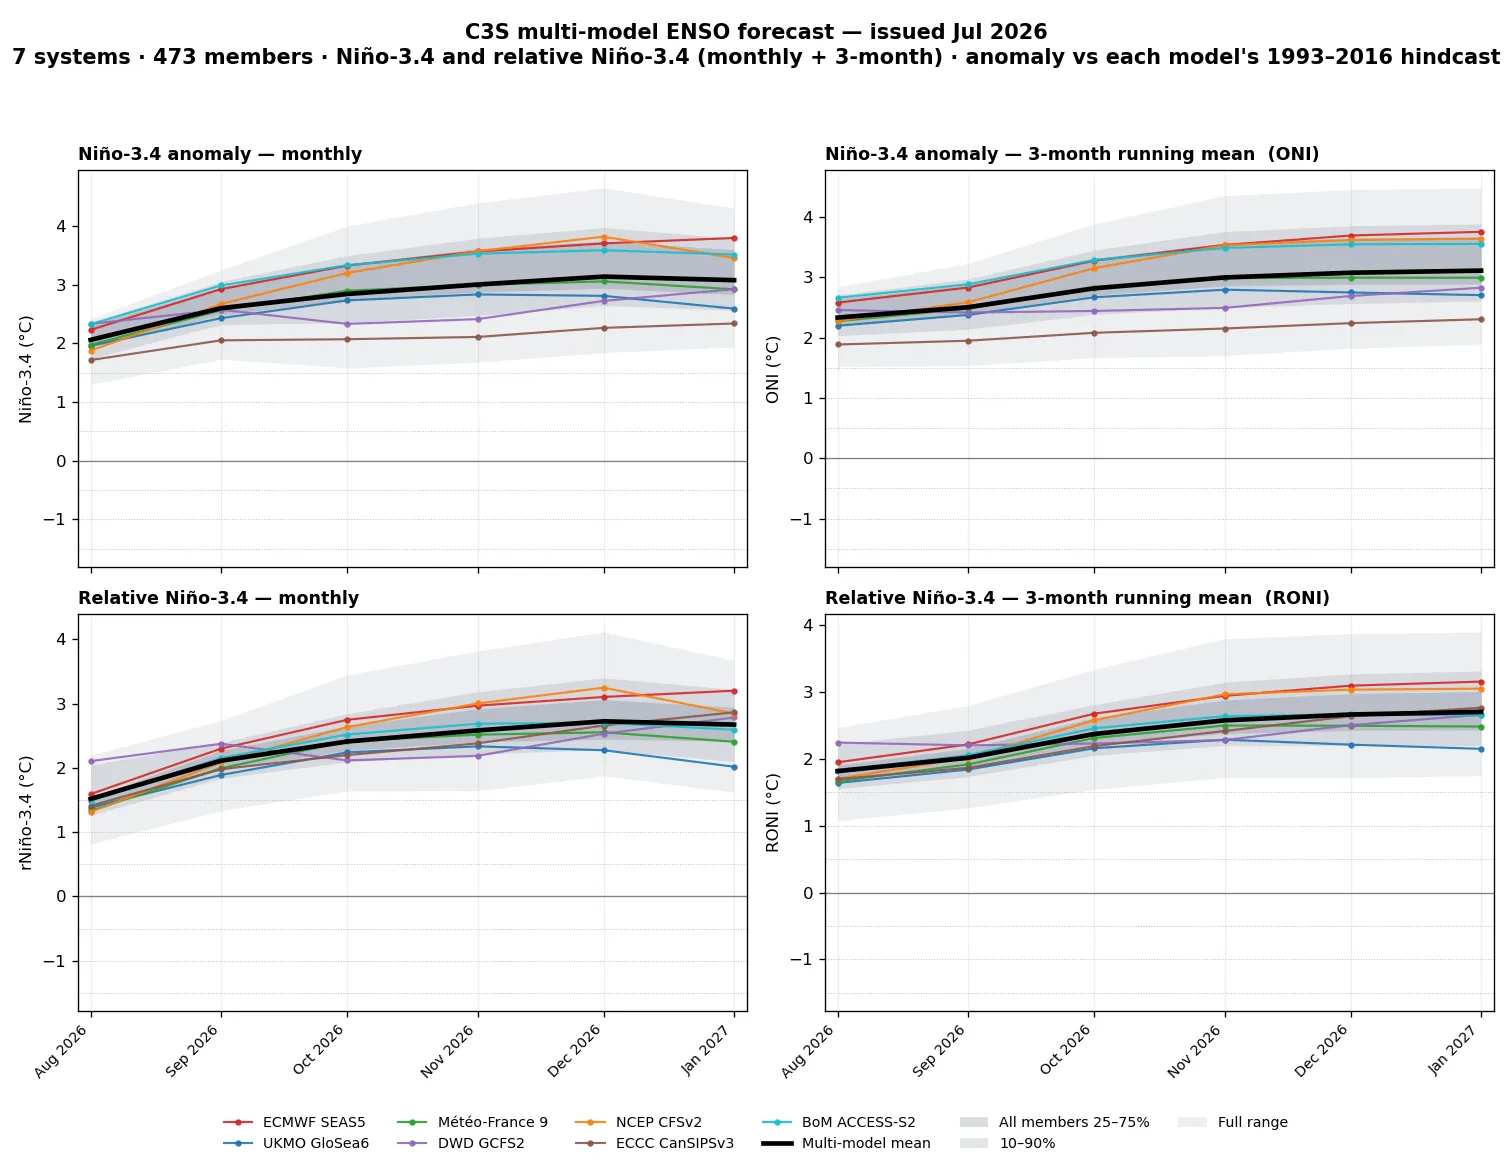
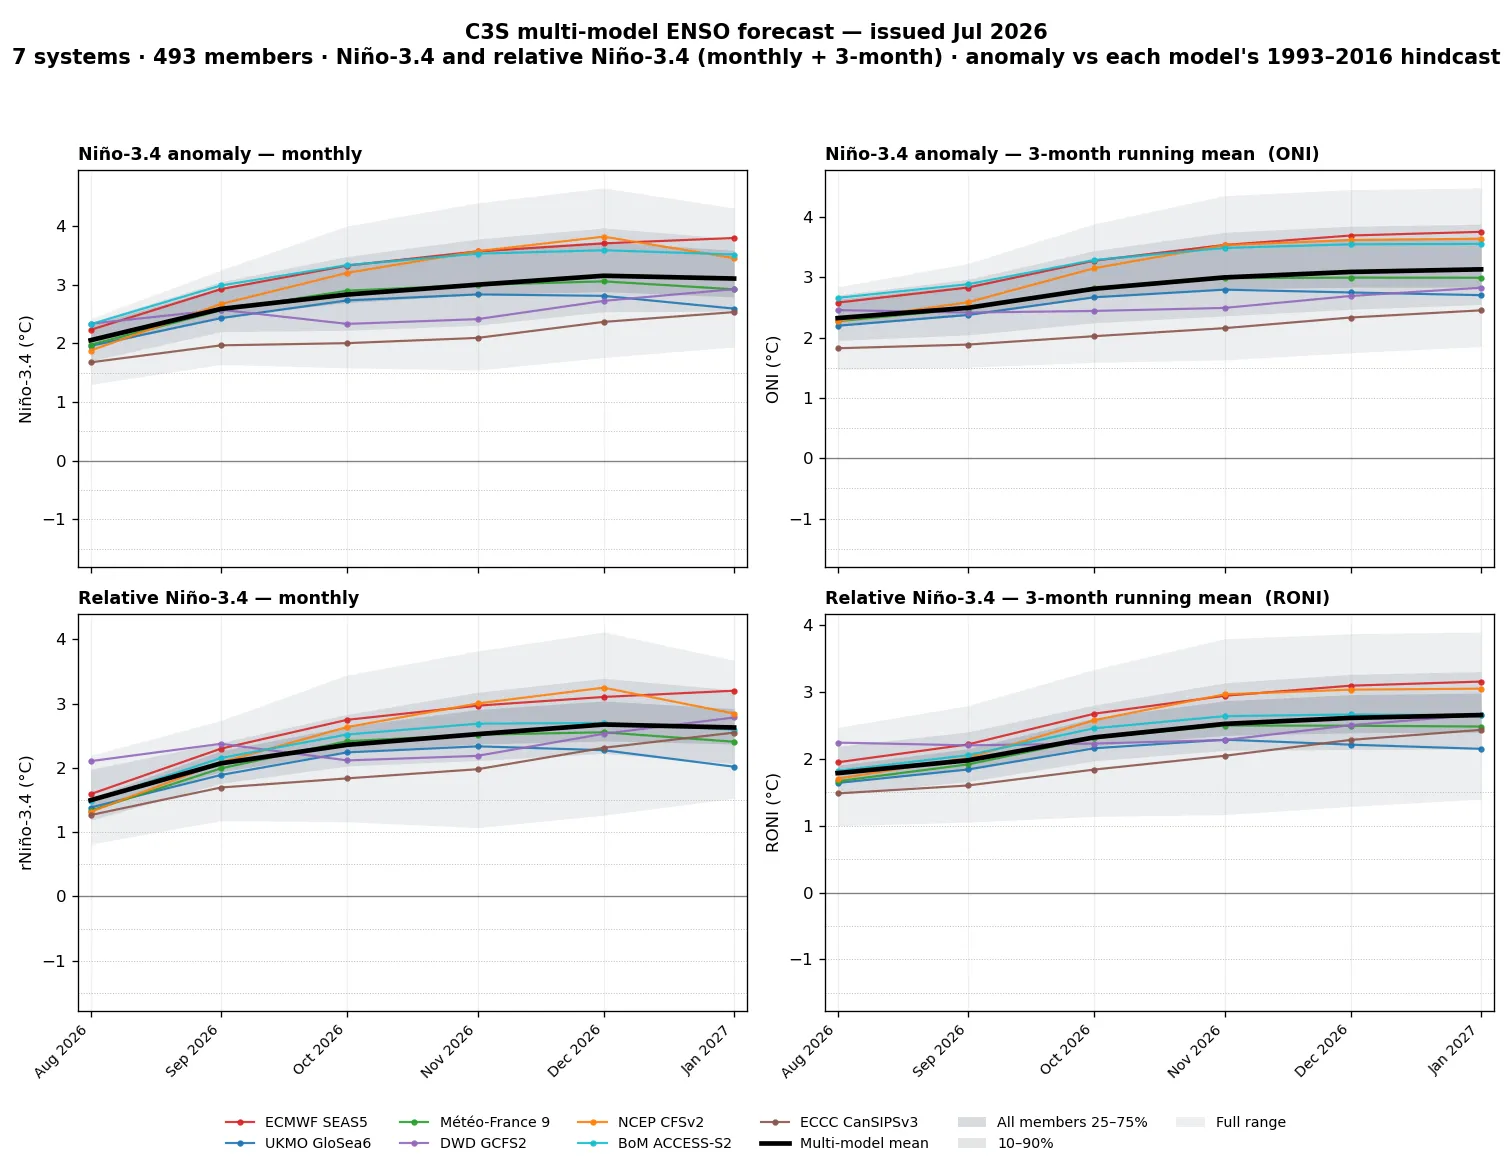
ENSO Forecasts: CanSIPS is GEM5-NEMO + CanESM5 merged, 40 members
Correcting the correction. The CDS carries ECCC's two CanSIPS COMPONENT
models as separate systems — 4 = GEM5-NEMO, 5 = CanESM5, 20 members each
(probed: no other eccc systems exist). Neither alone is CanSIPS; the June
"flat outlier" was one component standing in for the pair, and my earlier
"v2.1 deprecated" story was wrong. collect() now anomalizes each component
against its own hindcast and pools the members into one 40-member
"ECCC CanSIPSv3" entry (falling back to a single labelled component if only
one is on the CDS). July feed rebuilt: 7 display models, 493 members;
merged CanSIPS runs +1.68 → +2.53 °C, inside the multi-model envelope.

diff --git a/scripts/sst/c3s_nino34.py b/scripts/sst/c3s_nino34.py
@@ -94,9 +94,12 @@ MODELS = [
     ("meteo_france", "9",   "Météo-France 9", "#2ca02c"),
     ("dwd",          "22",  "DWD GCFS2",      "#9467bd"),
     ("ncep",         "2",   "NCEP CFSv2",     "#ff7f0e"),
-    # system 5 = CanSIPSv3, ECCC's operational system since late 2024 — the
-    # old "4" (CanSIPSv2.1) still publishes but is a deprecated parallel run
-    ("eccc",         "5",   "ECCC CanSIPSv3", "#8c564b"),
+    # CanSIPS is a TWO-model ensemble: the CDS carries its components as
+    # separate systems (4 = GEM5-NEMO, 5 = CanESM5, 20 members each). Each is
+    # anomalized against its own hindcast, then MERGED below into one 40-member
+    # CanSIPS — either alone is only half the ensemble.
+    ("eccc",         "4",   "ECCC GEM5-NEMO", "#8c564b"),
+    ("eccc",         "5",   "ECCC CanESM5",   "#8c564b"),
     ("bom",          "2",   "BoM ACCESS-S2",  "#17becf"),
 ]
 
@@ -273,6 +276,11 @@ def model_members(centre, system, ym):
     return {"n34": n34_mem, "rnino": rnino_mem}
 
 
+# components pooled into one display model (each anomalized vs its own
+# hindcast FIRST, then members concatenated — the CanSIPS construction)
+MERGE = {"ECCC CanSIPSv3": ("ECCC GEM5-NEMO", "ECCC CanESM5")}
+
+
 def collect(ym):
     """{label → (member_dict, colour)} for every model with data at this issue."""
     out = {}
@@ -286,6 +294,22 @@ def collect(ym):
         rn = np.array([r["rnino"][L].mean() for L in range(1, MAXLEAD + 1)])
         print(f"  {label:16s} {r['n34'][1].size:>3d} mem · "
               f"Niño-3.4 {n[0]:+.2f}→{n[-1]:+.2f}  rNiño-3.4 {rn[0]:+.2f}→{rn[-1]:+.2f}", flush=True)
+    for merged, parts in MERGE.items():
+        have = [p for p in parts if p in out]
+        if len(have) < 2:
+            if have:                      # one component alone: keep it, labelled as-is
+                print(f"  {merged}: only {have[0]} available — shown unmerged", flush=True)
+            continue
+        colour = out[have[0]][1]
+        pooled = {k: {L: np.concatenate([out[p][0][k][L] for p in have])
+                      for L in range(1, MAXLEAD + 1)}
+                  for k in ("n34", "rnino")}
+        for p in have:
+            del out[p]
+        out[merged] = (pooled, colour)
+        n = np.array([pooled["n34"][L].mean() for L in range(1, MAXLEAD + 1)])
+        print(f"  {merged:16s} {pooled['n34'][1].size:>3d} mem (merged: "
+              f"{' + '.join(have)}) · Niño-3.4 {n[0]:+.2f}→{n[-1]:+.2f}", flush=True)
     return out
 
 
